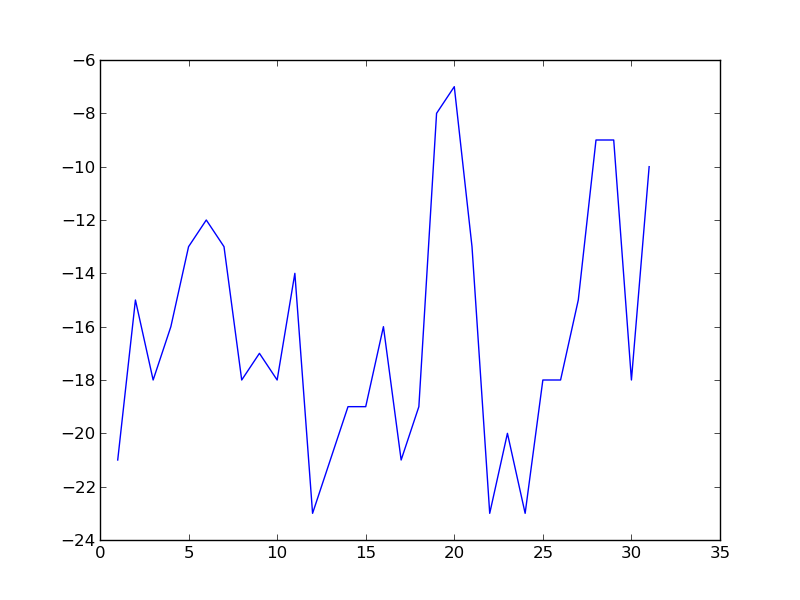
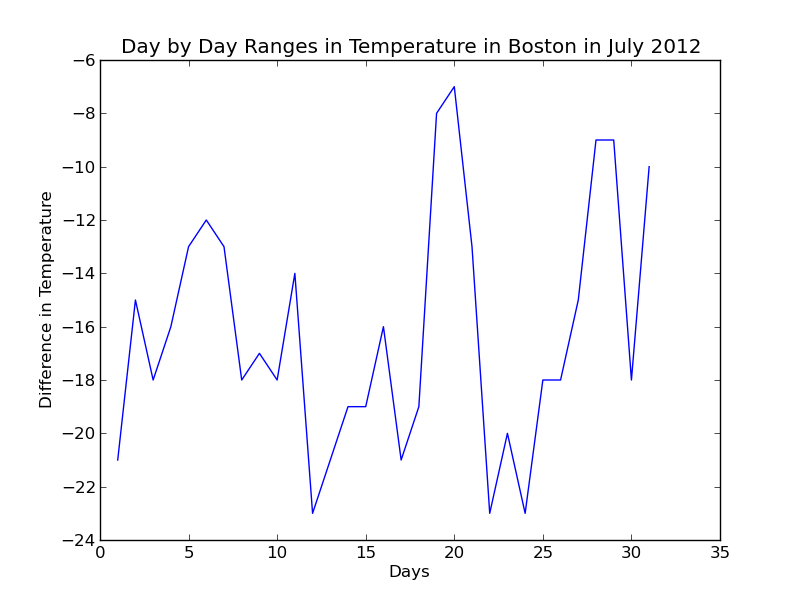
edited graph title and xlabel and ylabel

Changed region(s): [[0.1562, 0.06, 0.875, 0.09], [0.0312, 0.33, 0.0625, 0.69], [0.4688, 0.93, 0.5312, 0.96]]

diff --git a/c prog/graph_implementation.c b/c prog/graph_implementation.c
@@ -140,7 +140,7 @@ void main() {
     G = adjMatrixOfGraph(); //creating a new Graph 
     visited = (int *) malloc(G->V * sizeof(int));
     int i,c,u;
-    printf("0:DFS 1:BFS 2:Bellman-Ford");
+    printf("0:DFS 1:BFS 2:Bellman-Ford 3:Prim's " );
     scanf("%d",&c);
     switch(c) {
     case 0:
@@ -161,6 +161,11 @@ void main() {
         printf("\nEnter the vertex to start with : ");
         scanf("%d",&u);
         bFord(G,u);
+        break;
+    case 3:
+        printf("\nEnter the vertex to start with : ");
+        scanf("%d",&u);
+        prims(G,u);
         break;
     }
 }

diff --git a/python/week7_problems/tempPlot.py b/python/week7_problems/tempPlot.py
@@ -16,6 +16,9 @@ def producePlot((lowTemps,highTemps)):
 	diffTemps = []
 	for i in range(len(highTemps)):
 		diffTemps.append(highTemps[i]-lowTemps[i])
+	pylab.title("Day by Day Ranges in Temperature in Boston in July 2012")
+	pylab.xlabel("Days")
+	pylab.ylabel("Difference in Temperature")
 	pylab.plot(range(1,32),diffTemps)
 	pylab.savefig('L12_P4_graph.png')
 	pylab.show()
